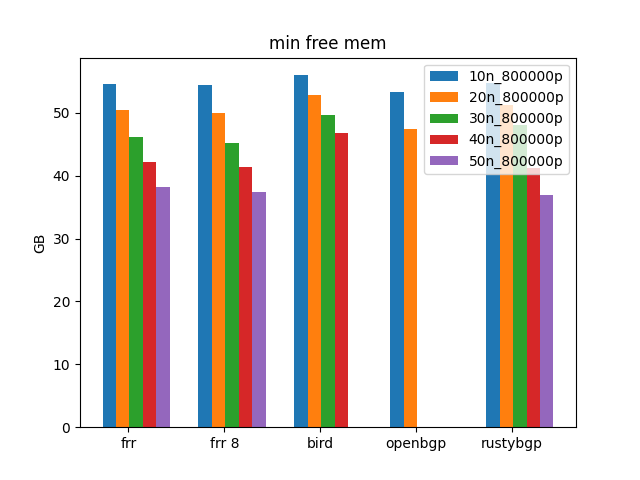
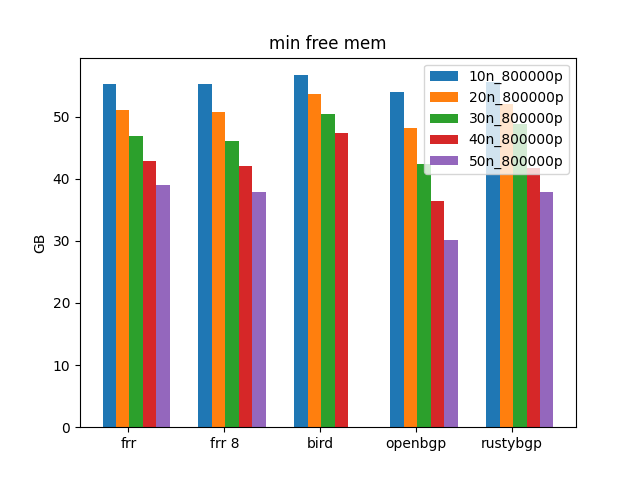
updated bgperf episode 4

diff --git a/_drafts/2021-09-21-bird-on-bird-bgp-perf-episode4.md b/_drafts/2021-09-21-bird-on-bird-bgp-perf-episode4.md
@@ -10,7 +10,6 @@ description: This post dives into specific issues with using BIRD as a tester an
 - 1st Post [Comparing Open Source BGP Stacks](https://elegantnetwork.github.io/posts/comparing-open-source-bgp-stacks/)
 - 2nd Post [Followup Measuring BGP Stacks Performance](https://elegantnetwork.github.io/posts/followup-measuring-BGP-stacks/)
 - 3rd Post [Comparing Open Source BGP stacks with internet routes](https://elegantnetwork.github.io/posts/comparing-open-source-bgp-internet-routes)
-- 4th Post [Bird on Bird, Episode 4 of BGP Perf testing ](https://elegantnetwork.github.io/posts/bird-on-bird-bgp-perf-episode4)
 
 After the last post, I thought the this post would be either adding interesting BGP policy. But that's tricky. It's going to take some rethinking about how [bgperf](https://github.com/jopietsch/bgperf) measures when a test is done, figuring out what filter is useful is hard, and also I want a little bit of a multi-vendor approach because there are already 5 NOSes and I want to add more. In the meantime, Maria Matejka <maria.matejka@nic.cz> added a BIRD generator in place of ExaBGP because BIRD is faster and uses less memory. Also, Fujita Tomonori updated RustyBGP based on the results I found and improved it's performance. In seeing the affect of each of these I discovered some things I'm surprised about.
 
@@ -116,13 +115,58 @@ I did no debugging. Exa works with all the other BGP stacks just fine, and Rusty
 These tests replay real internet routing tables. The specific MRT file used for these tests was [http://archive.routeviews.org/bgpdata/2021.08/RIBS/rib.20210801.0000.bz2](http://archive.routeviews.org/bgpdata/2021.08/RIBS/rib.20210801.0000.bz2)
 ## Bgpdump2 again
 
+
+### OpenBGPD vs bgpdump2
+
+We have to start by seeing if we can fix the results from OpenBGPD. Last time I noticed that with Bgpdump2 as the tester, OpenBGPD as the target and 30 neighbors, OpenBGPD stalled and then dropped a neighbor. I've added a new errors column in the stats. For BIRD and Bgpdump2 as testers, it will grep the tester logs to see if there are errors and count them. However, there is something going on. It appears bgpdump2 is sending all the data twice. It sends it, waits several seconds and sends it again. This seems to be happening with any and every target. This second time it sends it to openbgpd, for some reason on one of the testers is fails.
+
+The client has this in the log:
+
+```
+$ grep -i error /tmp/bgperf/mrt-injector*/*.log
+/tmp/bgperf/mrt-injector28/bgpdump2.log:Sep 21 17:14:33.670281 Notification Error: UPDATE Message Error (3), Malformed AS_PATH (11)
+/tmp/bgperf/mrt-injector29/bgpdump2.log:Sep 21 17:18:19.390782 Notification Error: UPDATE Message Error (3), Malformed AS_PATH (11)
+```
+
+I did finally get logging working for OpenBGPD; It's logs have:
+
+```
+neighbor 10.10.0.32: bad path, starting with 64550, enforce neighbor-as enabled
+neighbor 10.10.0.32: sending notification: error in UPDATE message, AS-Path unacceptable
+neighbor 10.10.0.32: state change Established -> Idle, reason: Fatal error
+neighbor 10.10.0.32: state change Idle -> Active, reason: Start
+neighbor 10.10.0.32: state change Active -> OpenSent, reason: Connection opened
+neighbor 10.10.0.32: Received multi protocol capability:  unknown AFI 1, safi 4 pair
+neighbor 10.10.0.32: Received multi protocol capability:  unknown AFI 2, safi 4 pair
+neighbor 10.10.0.32: state change OpenSent -> OpenConfirm, reason: OPEN message received
+neighbor 10.10.0.32: state change OpenConfirm -> Established, reason: KEEPALIVE message received
+```
+
+ok, OpenBGPD is doing a check that the other's don't do by default. so let's change OpenBGPD config to add 'enforce neighbor-as no' and see if we get better results. **SUCCESS**
+
+```
+elapsed: 238sec, cpu: 2.06%, mem: 10.87GB, mon recved: 878387, neighbors: 30, %idle 98.31, free mem 42.44GB
+openbgp: OpenBGPD 7.1
+Max cpu: 126.81, max mem: 10.87GB
+Min %idle 79.06, Min mem free 42.44GB
+Time since first received prefix: 235
+total time: 255.89s
+tester errors: 0
+
+name, target, version, peers, prefixes per peer, required, received, monitor (s), elapsed (s), prefix received (s), testers (s), total time, max cpu %, max mem (GB), min idle%, min free mem (GB), flags, date,cores,Mem (GB), tester errors, failed, MSG
+openbgp,openbgp,OpenBGPD 7.1,30,800000,800000,878387,0,238,3,235,255.89,127,10.87,79,42.442,-s,2021-09-21,32,62.82GB,0,
+```
+
+
+### RustyBGP
+
 To see if RustyBGP can do better than it did before. These results might not be exactly the same as before because bgperf now checks to see if things are stalled or prefixes count is dropping.
 
 ![elapsed time](/assets/images/2021-09-bgp-episode4/bgperf_bgpdump_elapsed.png)
 
 Yep, RustyBGP is considerably better than before and now the fastest in this test. 
 
-Why do OpenBPGD and BIRD have less results than before? It's because they had test failures. The OpenBGPD failures are the issues I noted last time.
+Why does BIRD have less results than before? It's because it had test failures. 
 
 ![memory usage](/assets/images/2021-09-bgp-episode4/bgperf_bgpdump_max_mem.png)
 
@@ -138,41 +182,13 @@ Finally we are seeing what I'd hoped to see when I started this, a BGP stack tha
 Why aren't there any tester errors? That's because any test that FAILED, we don't put in graphs. But if we look at the data directly for all the FAILED, we can see that for all the OpenBPGD fails, it did notice errors (which is the last column before the FAIL.)
 
 ```
-$ grep FAIL results/bgpdump.csv
-openbgp,openbgp,OpenBGPD 7.1,30,800000,800000,877885,0,270,3,267,292.84,192,11.266,74,41.129,,2021-09-11,32,62.82GB,1,FAILED,FAILED: stuck received count 877885 neighbors_checked 29
-openbgp,openbgp,OpenBGPD 7.1,40,800000,800000,878406,0,412,3,409,441.48,164,14.638,74,35.855,,2021-09-11,32,62.82GB,2,FAILED,FAILED: stuck received count 878406 neighbors_checked 39
-bird,bird,v2.0.8-59-gf761be6b,50,800000,792000,871147,7,190,3,187,233.67,102,4.162,76,44.243,-s,2021-09-11,32,62.82GB,0,FAILED,FAILED: dropping received count 871147 neighbors_checked 11
-openbgp,openbgp,OpenBGPD 7.1,50,800000,800000,878406,0,570,3,567,606.06,171,18.505,77,29.774,,2021-09-11,32,62.82GB,2,FAILED,FAILED: stuck received count 878406 neighbors_checked 49
+$ grep FAIL bgpdump.csv
+bird,bird,v2.0.8-59-gf761be6b,50,800000,792000,872222,13,199,3,196,242.49,102,4.277,77,44.661,-s,2021-09-21,32,62.82GB,0,FAILED,FAILED: dropping received count 872222 neighbors_checked 17
+
 ```
 
-Why did these fail and is it important? 
+Why did this fail and is it important? I don't know what's going on with BIRD here. Usually a drop in received counts is because neighbors connections are closed. I can't find any evidence of that here with BIRD. It doesn't drop by much, but it does drop for at least 10 seconds.
 
-I don't know what's going on with BIRD here. Usually a drop in received counts is because neighbors connections are closed. I can't find any evidence of that here with BIRD. It doesn't drop by much, but it does drop for at least 10 seconds.
-
-
-### OpenBGPD vs bgpdump2
-
-Last time I noticed that with Bgpdump2 as the tester, OpenBGPD as the target and 30 neighbors, OpenBGPD stalled and then dropped a neighbor. I still don't know why, but I've added a new errors column in the stats. For BIRD and Bgpdump2 as testers, it will grep the tester logs to see if there are errors and count them. However, there is something going on. It appears bgpdump2 is sending all the data twice. It sends it, waits several seconds and sends it again. This seems to be happening with any and every target. This second time it sends it to openbgpd, for some reason on one of the testers is fails.
-
-The client has this in the log:
-```
-Sep 17 23:01:26.351754 Read notification message (3), length 21 from 10.10.255.254
-Sep 17 23:01:26.351764 Notification Error: UPDATE Message Error (3), Malformed AS_PATH (11)
-```
-I did finally get logging working for OpenBGPD and so it's logs have:
-```
-neighbor 10.10.0.32: bad path, starting with 64550, enforce neighbor-as enabled
-neighbor 10.10.0.32: sending notification: error in UPDATE message, AS-Path unacceptable
-neighbor 10.10.0.32: state change Established -> Idle, reason: Fatal error
-neighbor 10.10.0.32: state change Idle -> Active, reason: Start
-neighbor 10.10.0.32: state change Active -> OpenSent, reason: Connection opened
-neighbor 10.10.0.32: Received multi protocol capability:  unknown AFI 1, safi 4 pair
-neighbor 10.10.0.32: Received multi protocol capability:  unknown AFI 2, safi 4 pair
-neighbor 10.10.0.32: state change OpenSent -> OpenConfirm, reason: OPEN message received
-neighbor 10.10.0.32: state change OpenConfirm -> Established, reason: KEEPALIVE message received
-```
-
-I don't know what in that MRT through bgpdump2 makes OpenBGPD find this, where no other stack does and using GoBGP to playback also doesn't have the problem. Continued mystery.
 
 
 ### bgpdump2 data
@@ -182,6 +198,8 @@ I don't know what in that MRT through bgpdump2 makes OpenBGPD find this, where n
 ## GoBGP MRT
 ![elapsed time](/assets/images/2021-09-bgp-episode4/bgperf_gobgp-mrt_elapsed.png)
 
+RustyBGP isn't faster than the others in this test, but is faster than it was last post.
+
 ![memory usage](/assets/images/2021-09-bgp-episode4/bgperf_gobgp-mrt_max_mem.png)
 
 ![free memory](/assets/images/2021-09-bgp-episode4/bgperf_gobgp-mrt_min_free.png)
@@ -189,21 +207,6 @@ I don't know what in that MRT through bgpdump2 makes OpenBGPD find this, where n
 ![max cpu](/assets/images/2021-09-bgp-episode4/bgperf_gobgp-mrt_max_cpu.png)
 
 
-The failure of RustyBGP at 30 neighbors is because my 64 GB machine ran out of memory.
-
-```
-$ grep FAILED gobgp-mrt.csv
-frr,frr,FRRouting 7.5.1_git (6d71b511efd5).,20,800000,744000,796303,1,365,5,360,380.56,214,4.408,11,206.953,,2021-09-13,64,249.02GB,0,FAILE
-,FAILED: dropping received count 796303 neighbors_checked 19
-frr 8,frr_c,FRRouting 8.0-bgperf (136036a6020d).,20,800000,744000,796289,1,306,7,299,321.15,219,4.187,10,204.979,,2021-09-13,64,249.02GB,0,FAILED,FAILED: dropping received count 796289 neighbors_checked 14
-openbgp,openbgp,OpenBGPD 7.1,20,800000,744000,796306,0,1006,8,998,1020.5,212,16.343,2,178.892,,2021-09-13,64,249.02GB,0,FAILED,FAILED: stuck received count 796306 neighbors_checked 0
-rustybgp,rustybgp,rustybgpd,20,800000,744000,796719,7,330,7,323,351.75,651,12.371,7,200.624,,2021-09-13,64,249.02GB,0,FAILED,FAILED: stuck received count 796719 neighbors_checked 13
-frr,frr,FRRouting 7.5.1_git (afed60012ff9).,30,800000,744000,796304,0,571,5,566,590.93,214,6.467,4,190.913,,2021-09-13,64,249.02GB,0,FAILED
-FAILED: dropping received count 796304 neighbors_checked 12
-frr 8,frr_c,FRRouting 8.0-bgperf (df1d18a186e3).,30,800000,744000,796288,1,491,5,486,512.13,216,6.521,3,187.757,,2021-09-13,64,249.02GB,0,FAILED,FAILED: dropping received count 796288 neighbors_checked 13
-openbgp,openbgp,OpenBGPD 7.1,30,800000,744000,796305,0,1412,6,1406,1431.76,217,23.448,1,152.019,,2021-09-13,64,249.02GB,0,FAILED,FAILED: stuck received count 796305 neighbors_checked 0
-rustybgp,rustybgp,rustybgpd,30,800000,744000,245197,15,385,6,379,420.65,681,13.594,2,182.888,,2021-09-13,64,249.02GB,0,FAILED,FAILED: stuck received count 245197 neighbors_checked 7
-```
 
 # Hold Timers
 
@@ -228,7 +231,6 @@ bird -s,1500,100,58.64,0,FAILED: stuck received count 100000 neighbors_checked 1
 The BIRD failures are the ones are the results that we talked about at the beginning of this post and the OpeBGPD is because it ran out of memory. 
 
 
-
 5 second timers
 ```
 $ awk 'BEGIN{FS=","};{print $1 "," $4 "," $5 "," $16 "," $21 "," $23}' birt_many_5.csv|grep FAIL
@@ -248,38 +250,43 @@ frr 8,1500,100,58.367,0,FAILED: stuck received count 150000 neighbors_checked 0
 openbgp,1500,100,28.934,0,FAILED: stuck received count 150000 neighbors_checked 0
 rustybgp,1500,100,48.041,897,FAILED: dropping received count 138811 neighbors_checked 720
 ```
-Many Many more failures here. I don't have a specific pattern here. You can see that every stack had some problems. I think RustyBGP has the most problems with the hold timer set to 5 seconds. BIRD doesn't really have more failures than before though it does have more hold timer experations than before.
+
+Many Many more failures here. I don't have a specific pattern here. You can see that every stack had some problems. I think RustyBGP has the most problems with the hold timer set to 5 seconds. BIRD doesn't really have more failures than before though it does have more hold timer expirations than before.
+
+I assume very few network designs rely on 5 second hold timers, but I wonder if that is just because it's never been reliable. I see things a little different. It's 2021 and for any other distributed database to not know it's neighbors were down in 5 seconds is a very long time. Maybe that's too ideological and not practical. I'm just measuring for now. If you want aggressive hold timers then you need to be careful and probably should at least monitor hold timer expirations and see if they are being impacted.
 
 
-# What did we learn
-I thought I'd learned about a BIRD performance issue, but it turns out I already knew that, but using BIRD to measure BIRD makes it more obvious. Also, are the tests that BIRD did bad on realistic? Unlikely. It's finding an edge case in which BIRD performs badly, but you are unlikely to get to that place.
+# What did we learn?
 
-BIRD as a tester is a tester that takes less resources, so I've made it the default tester now. it's more pleasant. But Exa had a problem with RustyBGP, so it might be good to use it as one more compatibility test.
+I thought I'd learned about a BIRD performance issue, but it turns out I already knew that, but using BIRD to measure BIRD makes it more obvious. Also, are the tests that BIRD did poorly on realistic? Unlikely. It's finding an edge case in which BIRD performs badly, but you are unlikely to get to that place.
 
-I'm not yet sure what we learned about hold timers. Ideally 5 second hold timers for containers that are on the same computer shouldn't be a problem; maybe I'm being naive? 
+BIRD as a tester takes less resources, so I've made it the default tester now. But Exa had a problem with RustyBGP, so it might be good to use it as one more compatibility test.
+
+I'm not yet sure what we learned about hold timers. Ideally 5 second hold timers for containers that are on the same computer shouldn't be a problem; maybe I'm being naïve? 
 
 bgperf is a bit better every time.
 ## RustyBGP
 
-Did RustyBGP get better? Yes, much better. It's the fastest in the MRT playback tests. It's not as fast as FRR in the many neighbors tests, but those are less realistic. We finally have a BGP stack that can take advantage of modern hardware. ( I mean, that I'm measuring. I know there are others that probably do also, but they are commercial and I just haven't gotten there yet.) However, it also has some weird problem with Exa as the tester that I have not tracked down. 
+Did RustyBGP get better? Yes, much better. It's the fastest in the MRT bgpdump2 playback tests. It's not as fast as FRR in the many neighbors tests, but those are less realistic. We finally have a BGP stack that can take advantage of modern hardware. (I mean, that I'm measuring. I know there are others that probably do also, but they are commercial and I just haven't gotten there yet.) However, it also has some weird problem with Exa as the tester that I have not tracked down. 
 
 I think it has a problem with hold timers. At least I can get a lot of hold timers to expire and I think that's bad, but am not sure.
-
 
 ## BIRD
 
 BIRD is much slower than expected when there are many neighbors (> 500) neighbors. At least it gets much worse than expected.
+
+I'm also concerned about the results from 50 neighbors with bgpdump2. As noted, the bgperf now checks to see if the total received prefixes at the monitor goes down and fails if it has for 10 seconds. BIRD does that and I don't know what it means. No other stack does this.
 ## OpenBGPD
 
-As noticed before it has some reset on bgpdump2 that I have tracked down.
+As noticed before it has some reset on bgpdump2 that I have tracked down. By default it has on enforce neighbor-as, which does a check no other BGP stack does by default.
 
-It also uses more memory, and a lot more memory per neighbor. It's been noticed in previous comments that is because it has a separate ADJ-RIB-IN for every neighbor rather than a shared one with pointers. I think the implication is that it might be for safety. Whatever the reason, if you have lots of neighbors it will cost you. Possibly it doesn't matter, but it might.
+It also uses more memory, and a lot more memory per neighbor. It's been commented to previous posts that is because it has a separate ADJ-RIB-IN for every neighbor rather than a shared one with pointers. I think the implication is that it might be for safety. Whatever the reason, if you have lots of neighbors it will cost you. Possibly it doesn't matter, but it might.
 
 ## Which stack to use
 
 I still don't know. If any of my previous conclusions made you think you should pick one over the other, I'm sorry. I'm just trying to measure and find differences. This post especially is just targeted to specific tests. If you have more than 500 neighbors with BIRD and they each have lots of routes then maybe you should be worried.
 
-FRRouting is a strong performer in all of these tests. It's interesting that for IXP style work BIRD and OpenBGPD seem to be the only open source option. I don't know if that is because several years ago Quagga/FRRouting was poor in performance here, that at least seems to have been the story. 
+FRRouting is a strong performer in all of these tests. It's interesting that for IXP style work BIRD and OpenBGPD seem to be the the two choices for everyone. I don't know if that is because several years ago Quagga/FRRouting was poor in performance here, that at least seems to have been the story. 
 
 Of course, there are still big pieces of BGP stack performance, especially routing policy and filtering, that I've not gotten to and are extremely important. 
 
